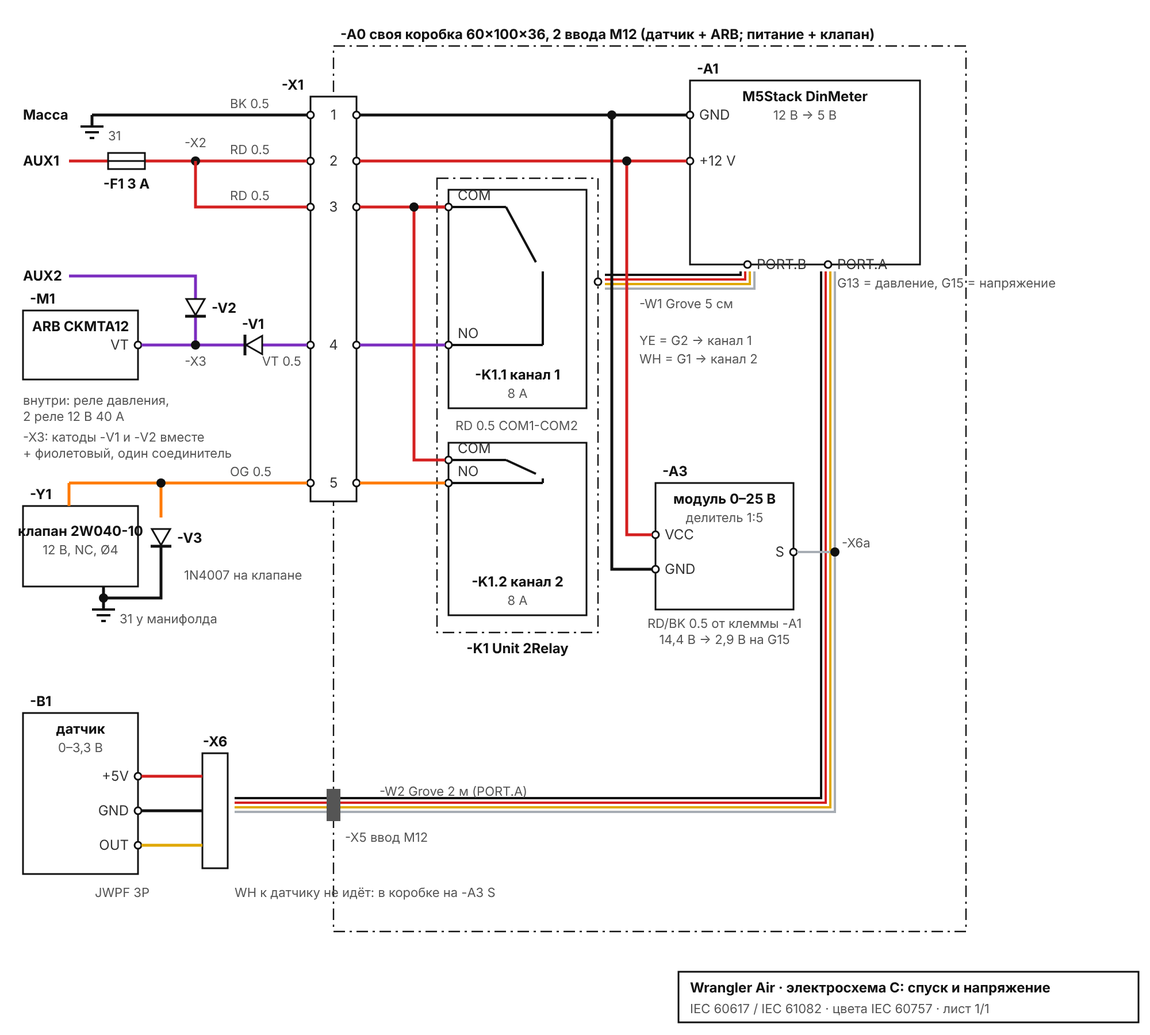
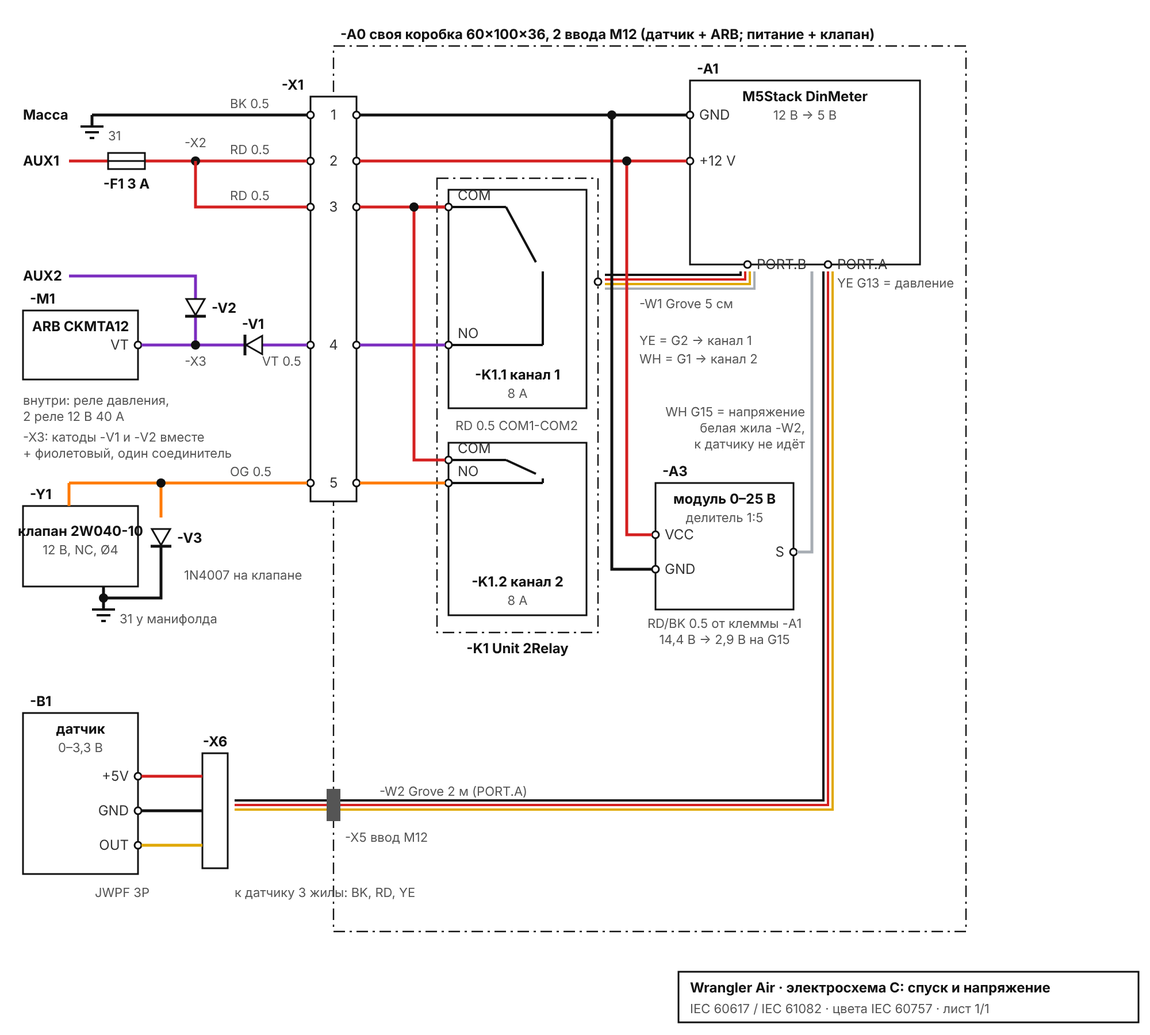
Schematic C: draw G15 (white Grove conductor) as its own wire to -A3 S
Claude-Session: https://claude.ai/code/session_018z5LvCZ9NFya6WZW91qW8w

Changed region(s): [[0.186, 0.2489, 0.837, 0.8089], [0.217, 0.84, 0.372, 0.8711], [0.868, 0.2489, 0.899, 0.28]]

diff --git a/hardware/enclosure/hammond_1591c/power_schematic_def.html b/hardware/enclosure/hammond_1591c/power_schematic_def.html
@@ -1,1 +1,1 @@
-<meta charset="utf-8"><body style="margin:0;--f:Inter,system-ui,sans-serif"><svg viewBox="0 0 1000 900" style="color:var(--fg);max-width:1000px;margin:0 auto;background:#fff;border-radius:8px"><style>.d{font:700 12px var(--f);fill:#111}.n{font:12px var(--f);fill:#333}.c{font:11px var(--f);fill:#555}.w{stroke:#111;stroke-width:2;fill:none;stroke-linejoin:miter}.b{fill:#fff;stroke:#111;stroke-width:1.5}.box{fill:none;stroke:#111;stroke-width:1.2;stroke-dasharray:10 4 2 4}.t{fill:#fff;stroke:#111;stroke-width:1.5}</style><rect x="290" y="40" width="550" height="770" class="box"/><text x="296" y="34" class="d" text-anchor="start">-A0  своя коробка 60×100×36, 2 ввода M12 (датчик + ARB; питание + клапан)</text><rect x="270" y="84" width="40" height="352" class="b"/><text x="264" y="78" class="d" text-anchor="end">-X1</text><circle cx="270" cy="100" r="3" class="t"/><circle cx="310" cy="100" r="3" class="t"/><text x="290" y="104" class="n" text-anchor="middle">1</text><circle cx="270" cy="140" r="3" class="t"/><circle cx="310" cy="140" r="3" class="t"/><text x="290" y="144" class="n" text-anchor="middle">2</text><circle cx="270" cy="180" r="3" class="t"/><circle cx="310" cy="180" r="3" class="t"/><text x="290" y="184" class="n" text-anchor="middle">3</text><circle cx="270" cy="300" r="3" class="t"/><circle cx="310" cy="300" r="3" class="t"/><text x="290" y="304" class="n" text-anchor="middle">4</text><circle cx="270" cy="420" r="3" class="t"/><circle cx="310" cy="420" r="3" class="t"/><text x="290" y="424" class="n" text-anchor="middle">5</text><text x="20" y="104" class="d" text-anchor="start">Масса</text><polyline fill="none" stroke="#111111" stroke-width="2.5" stroke-linejoin="miter" points="80,100 267,100"/><polyline fill="none" stroke="#111111" stroke-width="2.5" stroke-linejoin="miter" points="80,100 80,110"/><line x1="70" y1="110" x2="90" y2="110" stroke="#111" stroke-width="2"/><line x1="74" y1="115" x2="86" y2="115" stroke="#111" stroke-width="2"/><line x1="78" y1="120" x2="82" y2="120" stroke="#111" stroke-width="2"/><text x="94" y="122" class="c" text-anchor="start">31</text><text x="200" y="94" class="c" text-anchor="start">BK 0.5</text><text x="20" y="144" class="d" text-anchor="start">AUX1</text><polyline fill="none" stroke="#d42020" stroke-width="2.5" stroke-linejoin="miter" points="60,140 267,140"/><rect x="94" y="133" width="32" height="14" class="b"/><line x1="94" y1="140" x2="126" y2="140" stroke="#111" stroke-width="1.5"/><text x="110" y="126" class="d" text-anchor="middle"> </text><text x="110" y="164" class="d" text-anchor="middle">-F1 3 A</text><circle cx="170" cy="140" r="4" fill="#111"/><polyline fill="none" stroke="#d42020" stroke-width="2.5" stroke-linejoin="miter" points="170,140 170,180 267,180"/><text x="170" y="128" class="c" text-anchor="middle">-X2</text><text x="200" y="134" class="c" text-anchor="start">RD 0.5</text><text x="200" y="174" class="c" text-anchor="start">RD 0.5</text><text x="20" y="244" class="d" text-anchor="start">AUX2</text><polyline fill="none" stroke="#7b2cbf" stroke-width="2.5" stroke-linejoin="miter" points="60,240 170,240 170,300"/><polygon points="162,260 178,260 170,274" class="b"/><line x1="161" y1="275" x2="179" y2="275" stroke="#111" stroke-width="2.5"/><text x="184" y="272" class="d" text-anchor="start">-V2</text><rect x="20" y="270" width="100" height="60" class="b"/><text x="26" y="264" class="d" text-anchor="start">-M1</text><text x="70.0" y="288" class="d" text-anchor="middle">ARB CKMTA12</text><circle cx="120" cy="300" r="3" class="t"/><text x="112" y="304" class="n" text-anchor="end">VT</text><polyline fill="none" stroke="#7b2cbf" stroke-width="2.5" stroke-linejoin="miter" points="170,300 267,300"/><polyline fill="none" stroke="#7b2cbf" stroke-width="2.5" stroke-linejoin="miter" points="123,300 170,300"/><circle cx="170" cy="300" r="4" fill="#111"/><polygon points="228,292 228,308 214,300" class="b"/><line x1="213" y1="291" x2="213" y2="309" stroke="#111" stroke-width="2.5"/><text x="220" y="286" class="d" text-anchor="middle">-V1</text><text x="170" y="318" class="c" text-anchor="middle">-X3</text><text x="20" y="384" class="c" text-anchor="start">-X3: катоды -V1 и -V2 вместе</text><text x="20" y="398" class="c" text-anchor="start">+ фиолетовый, один соединитель</text><text x="262" y="318" class="c" text-anchor="end">VT 0.5</text><text x="20" y="352" class="c" text-anchor="start">внутри: реле давления,</text><text x="20" y="366" class="c" text-anchor="start">2 реле 12 В 40 А</text><rect x="20" y="620" width="100" height="140" class="b"/><text x="26" y="614" class="d" text-anchor="start">-B1</text><text x="70.0" y="638" class="d" text-anchor="middle">датчик</text><text x="70.0" y="654" class="c" text-anchor="middle">0–3,3 В</text><circle cx="120" cy="675" r="3" class="t"/><text x="112" y="679" class="n" text-anchor="end">+5V</text><circle cx="120" cy="705" r="3" class="t"/><text x="112" y="709" class="n" text-anchor="end">GND</text><circle cx="120" cy="735" r="3" class="t"/><text x="112" y="739" class="n" text-anchor="end">OUT</text><rect x="176" y="655" width="22" height="100" class="b"/><text x="187" y="649" class="d" text-anchor="middle">-X6</text><text x="187" y="770" class="c" text-anchor="middle"></text><text x="130" y="780" class="c" text-anchor="end">JWPF 3P</text><polyline fill="none" stroke="#d42020" stroke-width="2.5" stroke-linejoin="miter" points="123,675 176,675"/><polyline fill="none" stroke="#111111" stroke-width="2.5" stroke-linejoin="miter" points="123,705 176,705"/><polyline fill="none" stroke="#e0a800" stroke-width="2.5" stroke-linejoin="miter" points="123,735 176,735"/><polyline fill="none" stroke="#111111" stroke-width="2" stroke-linejoin="miter" points="714.0,236 714.0,694.0 204,694.0"/><polyline fill="none" stroke="#d42020" stroke-width="2" stroke-linejoin="miter" points="718.0,236 718.0,698.0 204,698.0"/><polyline fill="none" stroke="#e0a800" stroke-width="2" stroke-linejoin="miter" points="722.0,236 722.0,702.0 204,702.0"/><polyline fill="none" stroke="#a7adb4" stroke-width="2" stroke-linejoin="miter" points="726.0,236 726.0,706.0 204,706.0"/><rect x="284" y="686" width="12" height="28" fill="#555"/><text x="300" y="732" class="c" text-anchor="start">-X5 ввод M12</text><text x="330" y="692" class="c" text-anchor="start">-W2 Grove 2 м (PORT.A)</text><text x="204" y="780" class="c" text-anchor="start">WH к датчику не идёт: в коробке на -A3 S</text><rect x="600" y="70" width="200" height="160" class="b"/><text x="606" y="64" class="d" text-anchor="start">-A1</text><text x="700.0" y="88" class="d" text-anchor="middle">M5Stack DinMeter</text><text x="700.0" y="104" class="c" text-anchor="middle">12 В → 5 В</text><circle cx="600" cy="100" r="3" class="t"/><text x="608" y="104" class="n" text-anchor="start">GND</text><circle cx="600" cy="140" r="3" class="t"/><text x="608" y="144" class="n" text-anchor="start">+12 V</text><circle cx="650" cy="230" r="3" class="t"/><text x="658" y="234" class="n" text-anchor="start">PORT.B</text><circle cx="720" cy="230" r="3" class="t"/><text x="728" y="234" class="n" text-anchor="start">PORT.A</text><text x="728" y="250" class="c" text-anchor="start">G13 = давление, G15 = напряжение</text><polyline fill="none" stroke="#111111" stroke-width="2.5" stroke-linejoin="miter" points="313,100 597,100"/><polyline fill="none" stroke="#d42020" stroke-width="2.5" stroke-linejoin="miter" points="313,140 597,140"/><rect x="390" y="165" width="120" height="190" class="b"/><rect x="380" y="155" width="140" height="395" class="box"/><text x="450" y="568" class="d" text-anchor="middle">-K1 Unit 2Relay</text><text x="450" y="330" class="d" text-anchor="middle">-K1.1 канал 1</text><text x="450" y="346" class="c" text-anchor="middle">8 A</text><line x1="393" y1="180" x2="440" y2="180" stroke="#111" stroke-width="2"/><line x1="440" y1="180" x2="466" y2="228" stroke="#111" stroke-width="2"/><line x1="393" y1="300" x2="472" y2="300" stroke="#111" stroke-width="2"/><line x1="472" y1="300" x2="472" y2="236" stroke="#111" stroke-width="2"/><circle cx="390" cy="180" r="3" class="t"/><circle cx="390" cy="300" r="3" class="t"/><text x="398" y="174" class="n" text-anchor="start">COM</text><text x="398" y="294" class="n" text-anchor="start">NO</text><polyline fill="none" stroke="#d42020" stroke-width="2.5" stroke-linejoin="miter" points="313,180 387,180"/><polyline fill="none" stroke="#7b2cbf" stroke-width="2.5" stroke-linejoin="miter" points="313,300 387,300"/><circle cx="520" cy="245" r="3" class="t"/><polyline fill="none" stroke="#111111" stroke-width="2" stroke-linejoin="miter" points="644.0,236 644.0,239.0 526,239.0"/><polyline fill="none" stroke="#d42020" stroke-width="2" stroke-linejoin="miter" points="648.0,236 648.0,243.0 526,243.0"/><polyline fill="none" stroke="#e0a800" stroke-width="2" stroke-linejoin="miter" points="652.0,236 652.0,247.0 526,247.0"/><polyline fill="none" stroke="#a7adb4" stroke-width="2" stroke-linejoin="miter" points="656.0,236 656.0,251.0 526,251.0"/><text x="556" y="268" class="c" text-anchor="start">-W1 Grove 5 см</text><rect x="390" y="385" width="120" height="150" class="b"/><text x="450" y="510" class="d" text-anchor="middle">-K1.2 канал 2</text><text x="450" y="526" class="c" text-anchor="middle">8 A</text><line x1="393" y1="400" x2="440" y2="400" stroke="#111" stroke-width="2"/><line x1="440" y1="400" x2="466" y2="412" stroke="#111" stroke-width="2"/><line x1="393" y1="420" x2="472" y2="420" stroke="#111" stroke-width="2"/><line x1="472" y1="420" x2="472" y2="416" stroke="#111" stroke-width="2"/><circle cx="390" cy="400" r="3" class="t"/><circle cx="390" cy="420" r="3" class="t"/><text x="398" y="394" class="n" text-anchor="start">COM</text><text x="398" y="414" class="n" text-anchor="start">NO</text><polyline fill="none" stroke="#d42020" stroke-width="2.5" stroke-linejoin="miter" points="387,180 360,180 360,400 387,400"/><circle cx="360" cy="180" r="4" fill="#111"/><text x="396" y="374" class="c" text-anchor="start">RD 0.5 COM1-COM2</text><polyline fill="none" stroke="#ff7a00" stroke-width="2.5" stroke-linejoin="miter" points="313,420 387,420"/><text x="556" y="300" class="c" text-anchor="start">YE = G2 → канал 1</text><text x="556" y="316" class="c" text-anchor="start">WH = G1 → канал 2</text><polyline fill="none" stroke="#ff7a00" stroke-width="2.5" stroke-linejoin="miter" points="60,420 267,420"/><text x="200" y="414" class="c" text-anchor="start">OG 0.5</text><rect x="20" y="440" width="100" height="70" class="b"/><text x="26" y="434" class="d" text-anchor="start">-Y1</text><text x="70" y="466" class="d" text-anchor="middle">клапан 2W040-10</text><text x="70" y="482" class="c" text-anchor="middle">12 В, NC, Ø4</text><polyline fill="none" stroke="#ff7a00" stroke-width="2.5" stroke-linejoin="miter" points="60,420 60,440"/><polyline fill="none" stroke="#111111" stroke-width="2.5" stroke-linejoin="miter" points="90,510 90,530"/><line x1="80" y1="530" x2="100" y2="530" stroke="#111" stroke-width="2"/><line x1="84" y1="535" x2="96" y2="535" stroke="#111" stroke-width="2"/><line x1="88" y1="540" x2="92" y2="540" stroke="#111" stroke-width="2"/><text x="104" y="542" class="c" text-anchor="start">31 у манифолда</text><polyline fill="none" stroke="#ff7a00" stroke-width="2.5" stroke-linejoin="miter" points="140,420 140,450"/><polygon points="132,460 148,460 140,474" class="b"/><line x1="131" y1="475" x2="149" y2="475" stroke="#111" stroke-width="2.5"/><text x="154" y="472" class="d" text-anchor="start">-V3</text><polyline fill="none" stroke="#111111" stroke-width="2.5" stroke-linejoin="miter" points="140,476 140,520 90,520"/><circle cx="140" cy="420" r="4" fill="#111"/><circle cx="90" cy="520" r="4" fill="#111"/><text x="160" y="504" class="c" text-anchor="start">1N4007 на клапане</text><rect x="570" y="420" width="120" height="110" class="b"/><text x="576" y="414" class="d" text-anchor="start">-A3</text><text x="630.0" y="438" class="d" text-anchor="middle">модуль 0–25 В</text><text x="630.0" y="454" class="c" text-anchor="middle">делитель 1:5</text><circle cx="570" cy="465" r="3" class="t"/><text x="578" y="469" class="n" text-anchor="start">VCC</text><circle cx="570" cy="495" r="3" class="t"/><text x="578" y="499" class="n" text-anchor="start">GND</text><circle cx="690" cy="480" r="3" class="t"/><text x="682" y="484" class="n" text-anchor="end">S</text><polyline fill="none" stroke="#d42020" stroke-width="2.5" stroke-linejoin="miter" points="545,140 545,465 567,465"/><circle cx="545" cy="140" r="4" fill="#111"/><polyline fill="none" stroke="#111111" stroke-width="2.5" stroke-linejoin="miter" points="532,100 532,495 567,495"/><circle cx="532" cy="100" r="4" fill="#111"/><polyline fill="none" stroke="#a7adb4" stroke-width="2" stroke-linejoin="miter" points="693,480 726,480"/><circle cx="726" cy="480" r="4" fill="#111"/><text x="732" y="476" class="c" text-anchor="start">-X6a</text><text x="630" y="546" class="c" text-anchor="middle">RD/BK 0.5 от клеммы -A1</text><text x="630" y="560" class="c" text-anchor="middle">14,4 В → 2,9 В на G15</text><rect x="590" y="845" width="400" height="44" class="b"/><text x="600" y="863" class="d" text-anchor="start">Wrangler Air · электросхема C: спуск и напряжение</text><text x="600" y="881" class="c" text-anchor="start">IEC 60617 / IEC 61082 · цвета IEC 60757 · лист 1/1</text></svg>
+<meta charset="utf-8"><body style="margin:0;--f:Inter,system-ui,sans-serif"><svg viewBox="0 0 1000 900" style="color:var(--fg);max-width:1000px;margin:0 auto;background:#fff;border-radius:8px"><style>.d{font:700 12px var(--f);fill:#111}.n{font:12px var(--f);fill:#333}.c{font:11px var(--f);fill:#555}.w{stroke:#111;stroke-width:2;fill:none;stroke-linejoin:miter}.b{fill:#fff;stroke:#111;stroke-width:1.5}.box{fill:none;stroke:#111;stroke-width:1.2;stroke-dasharray:10 4 2 4}.t{fill:#fff;stroke:#111;stroke-width:1.5}</style><rect x="290" y="40" width="550" height="770" class="box"/><text x="296" y="34" class="d" text-anchor="start">-A0  своя коробка 60×100×36, 2 ввода M12 (датчик + ARB; питание + клапан)</text><rect x="270" y="84" width="40" height="352" class="b"/><text x="264" y="78" class="d" text-anchor="end">-X1</text><circle cx="270" cy="100" r="3" class="t"/><circle cx="310" cy="100" r="3" class="t"/><text x="290" y="104" class="n" text-anchor="middle">1</text><circle cx="270" cy="140" r="3" class="t"/><circle cx="310" cy="140" r="3" class="t"/><text x="290" y="144" class="n" text-anchor="middle">2</text><circle cx="270" cy="180" r="3" class="t"/><circle cx="310" cy="180" r="3" class="t"/><text x="290" y="184" class="n" text-anchor="middle">3</text><circle cx="270" cy="300" r="3" class="t"/><circle cx="310" cy="300" r="3" class="t"/><text x="290" y="304" class="n" text-anchor="middle">4</text><circle cx="270" cy="420" r="3" class="t"/><circle cx="310" cy="420" r="3" class="t"/><text x="290" y="424" class="n" text-anchor="middle">5</text><text x="20" y="104" class="d" text-anchor="start">Масса</text><polyline fill="none" stroke="#111111" stroke-width="2.5" stroke-linejoin="miter" points="80,100 267,100"/><polyline fill="none" stroke="#111111" stroke-width="2.5" stroke-linejoin="miter" points="80,100 80,110"/><line x1="70" y1="110" x2="90" y2="110" stroke="#111" stroke-width="2"/><line x1="74" y1="115" x2="86" y2="115" stroke="#111" stroke-width="2"/><line x1="78" y1="120" x2="82" y2="120" stroke="#111" stroke-width="2"/><text x="94" y="122" class="c" text-anchor="start">31</text><text x="200" y="94" class="c" text-anchor="start">BK 0.5</text><text x="20" y="144" class="d" text-anchor="start">AUX1</text><polyline fill="none" stroke="#d42020" stroke-width="2.5" stroke-linejoin="miter" points="60,140 267,140"/><rect x="94" y="133" width="32" height="14" class="b"/><line x1="94" y1="140" x2="126" y2="140" stroke="#111" stroke-width="1.5"/><text x="110" y="126" class="d" text-anchor="middle"> </text><text x="110" y="164" class="d" text-anchor="middle">-F1 3 A</text><circle cx="170" cy="140" r="4" fill="#111"/><polyline fill="none" stroke="#d42020" stroke-width="2.5" stroke-linejoin="miter" points="170,140 170,180 267,180"/><text x="170" y="128" class="c" text-anchor="middle">-X2</text><text x="200" y="134" class="c" text-anchor="start">RD 0.5</text><text x="200" y="174" class="c" text-anchor="start">RD 0.5</text><text x="20" y="244" class="d" text-anchor="start">AUX2</text><polyline fill="none" stroke="#7b2cbf" stroke-width="2.5" stroke-linejoin="miter" points="60,240 170,240 170,300"/><polygon points="162,260 178,260 170,274" class="b"/><line x1="161" y1="275" x2="179" y2="275" stroke="#111" stroke-width="2.5"/><text x="184" y="272" class="d" text-anchor="start">-V2</text><rect x="20" y="270" width="100" height="60" class="b"/><text x="26" y="264" class="d" text-anchor="start">-M1</text><text x="70.0" y="288" class="d" text-anchor="middle">ARB CKMTA12</text><circle cx="120" cy="300" r="3" class="t"/><text x="112" y="304" class="n" text-anchor="end">VT</text><polyline fill="none" stroke="#7b2cbf" stroke-width="2.5" stroke-linejoin="miter" points="170,300 267,300"/><polyline fill="none" stroke="#7b2cbf" stroke-width="2.5" stroke-linejoin="miter" points="123,300 170,300"/><circle cx="170" cy="300" r="4" fill="#111"/><polygon points="228,292 228,308 214,300" class="b"/><line x1="213" y1="291" x2="213" y2="309" stroke="#111" stroke-width="2.5"/><text x="220" y="286" class="d" text-anchor="middle">-V1</text><text x="170" y="318" class="c" text-anchor="middle">-X3</text><text x="20" y="384" class="c" text-anchor="start">-X3: катоды -V1 и -V2 вместе</text><text x="20" y="398" class="c" text-anchor="start">+ фиолетовый, один соединитель</text><text x="262" y="318" class="c" text-anchor="end">VT 0.5</text><text x="20" y="352" class="c" text-anchor="start">внутри: реле давления,</text><text x="20" y="366" class="c" text-anchor="start">2 реле 12 В 40 А</text><rect x="20" y="620" width="100" height="140" class="b"/><text x="26" y="614" class="d" text-anchor="start">-B1</text><text x="70.0" y="638" class="d" text-anchor="middle">датчик</text><text x="70.0" y="654" class="c" text-anchor="middle">0–3,3 В</text><circle cx="120" cy="675" r="3" class="t"/><text x="112" y="679" class="n" text-anchor="end">+5V</text><circle cx="120" cy="705" r="3" class="t"/><text x="112" y="709" class="n" text-anchor="end">GND</text><circle cx="120" cy="735" r="3" class="t"/><text x="112" y="739" class="n" text-anchor="end">OUT</text><rect x="176" y="655" width="22" height="100" class="b"/><text x="187" y="649" class="d" text-anchor="middle">-X6</text><text x="187" y="770" class="c" text-anchor="middle"></text><text x="130" y="780" class="c" text-anchor="end">JWPF 3P</text><polyline fill="none" stroke="#d42020" stroke-width="2.5" stroke-linejoin="miter" points="123,675 176,675"/><polyline fill="none" stroke="#111111" stroke-width="2.5" stroke-linejoin="miter" points="123,705 176,705"/><polyline fill="none" stroke="#e0a800" stroke-width="2.5" stroke-linejoin="miter" points="123,735 176,735"/><polyline fill="none" stroke="#111111" stroke-width="2" stroke-linejoin="miter" points="716.0,236 716.0,696.0 204,696.0"/><polyline fill="none" stroke="#d42020" stroke-width="2" stroke-linejoin="miter" points="720.0,236 720.0,700.0 204,700.0"/><polyline fill="none" stroke="#e0a800" stroke-width="2" stroke-linejoin="miter" points="724.0,236 724.0,704.0 204,704.0"/><rect x="284" y="686" width="12" height="28" fill="#555"/><text x="300" y="732" class="c" text-anchor="start">-X5 ввод M12</text><text x="330" y="692" class="c" text-anchor="start">-W2 Grove 2 м (PORT.A)</text><text x="204" y="780" class="c" text-anchor="start">к датчику 3 жилы: BK, RD, YE</text><rect x="600" y="70" width="200" height="160" class="b"/><text x="606" y="64" class="d" text-anchor="start">-A1</text><text x="700.0" y="88" class="d" text-anchor="middle">M5Stack DinMeter</text><text x="700.0" y="104" class="c" text-anchor="middle">12 В → 5 В</text><circle cx="600" cy="100" r="3" class="t"/><text x="608" y="104" class="n" text-anchor="start">GND</text><circle cx="600" cy="140" r="3" class="t"/><text x="608" y="144" class="n" text-anchor="start">+12 V</text><circle cx="650" cy="230" r="3" class="t"/><text x="658" y="234" class="n" text-anchor="start">PORT.B</text><circle cx="720" cy="230" r="3" class="t"/><text x="728" y="234" class="n" text-anchor="start">PORT.A</text><text x="728" y="250" class="c" text-anchor="start">YE G13 = давление</text><polyline fill="none" stroke="#111111" stroke-width="2.5" stroke-linejoin="miter" points="313,100 597,100"/><polyline fill="none" stroke="#d42020" stroke-width="2.5" stroke-linejoin="miter" points="313,140 597,140"/><rect x="390" y="165" width="120" height="190" class="b"/><rect x="380" y="155" width="140" height="395" class="box"/><text x="450" y="568" class="d" text-anchor="middle">-K1 Unit 2Relay</text><text x="450" y="330" class="d" text-anchor="middle">-K1.1 канал 1</text><text x="450" y="346" class="c" text-anchor="middle">8 A</text><line x1="393" y1="180" x2="440" y2="180" stroke="#111" stroke-width="2"/><line x1="440" y1="180" x2="466" y2="228" stroke="#111" stroke-width="2"/><line x1="393" y1="300" x2="472" y2="300" stroke="#111" stroke-width="2"/><line x1="472" y1="300" x2="472" y2="236" stroke="#111" stroke-width="2"/><circle cx="390" cy="180" r="3" class="t"/><circle cx="390" cy="300" r="3" class="t"/><text x="398" y="174" class="n" text-anchor="start">COM</text><text x="398" y="294" class="n" text-anchor="start">NO</text><polyline fill="none" stroke="#d42020" stroke-width="2.5" stroke-linejoin="miter" points="313,180 387,180"/><polyline fill="none" stroke="#7b2cbf" stroke-width="2.5" stroke-linejoin="miter" points="313,300 387,300"/><circle cx="520" cy="245" r="3" class="t"/><polyline fill="none" stroke="#111111" stroke-width="2" stroke-linejoin="miter" points="644.0,236 644.0,239.0 526,239.0"/><polyline fill="none" stroke="#d42020" stroke-width="2" stroke-linejoin="miter" points="648.0,236 648.0,243.0 526,243.0"/><polyline fill="none" stroke="#e0a800" stroke-width="2" stroke-linejoin="miter" points="652.0,236 652.0,247.0 526,247.0"/><polyline fill="none" stroke="#a7adb4" stroke-width="2" stroke-linejoin="miter" points="656.0,236 656.0,251.0 526,251.0"/><text x="556" y="268" class="c" text-anchor="start">-W1 Grove 5 см</text><rect x="390" y="385" width="120" height="150" class="b"/><text x="450" y="510" class="d" text-anchor="middle">-K1.2 канал 2</text><text x="450" y="526" class="c" text-anchor="middle">8 A</text><line x1="393" y1="400" x2="440" y2="400" stroke="#111" stroke-width="2"/><line x1="440" y1="400" x2="466" y2="412" stroke="#111" stroke-width="2"/><line x1="393" y1="420" x2="472" y2="420" stroke="#111" stroke-width="2"/><line x1="472" y1="420" x2="472" y2="416" stroke="#111" stroke-width="2"/><circle cx="390" cy="400" r="3" class="t"/><circle cx="390" cy="420" r="3" class="t"/><text x="398" y="394" class="n" text-anchor="start">COM</text><text x="398" y="414" class="n" text-anchor="start">NO</text><polyline fill="none" stroke="#d42020" stroke-width="2.5" stroke-linejoin="miter" points="387,180 360,180 360,400 387,400"/><circle cx="360" cy="180" r="4" fill="#111"/><text x="396" y="374" class="c" text-anchor="start">RD 0.5 COM1-COM2</text><polyline fill="none" stroke="#ff7a00" stroke-width="2.5" stroke-linejoin="miter" points="313,420 387,420"/><text x="556" y="300" class="c" text-anchor="start">YE = G2 → канал 1</text><text x="556" y="316" class="c" text-anchor="start">WH = G1 → канал 2</text><polyline fill="none" stroke="#ff7a00" stroke-width="2.5" stroke-linejoin="miter" points="60,420 267,420"/><text x="200" y="414" class="c" text-anchor="start">OG 0.5</text><rect x="20" y="440" width="100" height="70" class="b"/><text x="26" y="434" class="d" text-anchor="start">-Y1</text><text x="70" y="466" class="d" text-anchor="middle">клапан 2W040-10</text><text x="70" y="482" class="c" text-anchor="middle">12 В, NC, Ø4</text><polyline fill="none" stroke="#ff7a00" stroke-width="2.5" stroke-linejoin="miter" points="60,420 60,440"/><polyline fill="none" stroke="#111111" stroke-width="2.5" stroke-linejoin="miter" points="90,510 90,530"/><line x1="80" y1="530" x2="100" y2="530" stroke="#111" stroke-width="2"/><line x1="84" y1="535" x2="96" y2="535" stroke="#111" stroke-width="2"/><line x1="88" y1="540" x2="92" y2="540" stroke="#111" stroke-width="2"/><text x="104" y="542" class="c" text-anchor="start">31 у манифолда</text><polyline fill="none" stroke="#ff7a00" stroke-width="2.5" stroke-linejoin="miter" points="140,420 140,450"/><polygon points="132,460 148,460 140,474" class="b"/><line x1="131" y1="475" x2="149" y2="475" stroke="#111" stroke-width="2.5"/><text x="154" y="472" class="d" text-anchor="start">-V3</text><polyline fill="none" stroke="#111111" stroke-width="2.5" stroke-linejoin="miter" points="140,476 140,520 90,520"/><circle cx="140" cy="420" r="4" fill="#111"/><circle cx="90" cy="520" r="4" fill="#111"/><text x="160" y="504" class="c" text-anchor="start">1N4007 на клапане</text><rect x="570" y="420" width="120" height="110" class="b"/><text x="576" y="414" class="d" text-anchor="start">-A3</text><text x="630.0" y="438" class="d" text-anchor="middle">модуль 0–25 В</text><text x="630.0" y="454" class="c" text-anchor="middle">делитель 1:5</text><circle cx="570" cy="465" r="3" class="t"/><text x="578" y="469" class="n" text-anchor="start">VCC</text><circle cx="570" cy="495" r="3" class="t"/><text x="578" y="499" class="n" text-anchor="start">GND</text><circle cx="690" cy="480" r="3" class="t"/><text x="682" y="484" class="n" text-anchor="end">S</text><polyline fill="none" stroke="#d42020" stroke-width="2.5" stroke-linejoin="miter" points="545,140 545,465 567,465"/><circle cx="545" cy="140" r="4" fill="#111"/><polyline fill="none" stroke="#111111" stroke-width="2.5" stroke-linejoin="miter" points="532,100 532,495 567,495"/><circle cx="532" cy="100" r="4" fill="#111"/><polyline fill="none" stroke="#a7adb4" stroke-width="2.5" stroke-linejoin="miter" points="706,236 706,480 693,480"/><text x="700" y="362" class="c" text-anchor="end">WH G15 = напряжение</text><text x="700" y="376" class="c" text-anchor="end">белая жила -W2,</text><text x="700" y="390" class="c" text-anchor="end">к датчику не идёт</text><text x="630" y="546" class="c" text-anchor="middle">RD/BK 0.5 от клеммы -A1</text><text x="630" y="560" class="c" text-anchor="middle">14,4 В → 2,9 В на G15</text><rect x="590" y="845" width="400" height="44" class="b"/><text x="600" y="863" class="d" text-anchor="start">Wrangler Air · электросхема C: спуск и напряжение</text><text x="600" y="881" class="c" text-anchor="start">IEC 60617 / IEC 61082 · цвета IEC 60757 · лист 1/1</text></svg>

diff --git a/hardware/enclosure/hammond_1591c/power_svg.py b/hardware/enclosure/hammond_1591c/power_svg.py
@@ -378,9 +378,9 @@ def power_svg_iec_def():
         o.append(f'<polyline fill="none" stroke="{CC[c]}" stroke-width="{w}" stroke-linejoin="miter" points="' + " ".join(f"{x},{y}" for x, y in pts) + '"/>')
 
     def grove4(pts, order=("BK", "RD", "YE", "WH")):
-        """Grove cable: four conductors side by side, in their real colours."""
+        """Grove cable: conductors side by side, in their real colours."""
         for i, c in enumerate(order):
-            off = (i - 1.5) * 4
+            off = (i - (len(order) - 1) / 2) * 4
             q = []
             for k, (x, y) in enumerate(pts):
                 nb = [pts[j] for j in (k - 1, k + 1) if 0 <= j < len(pts)]
@@ -471,16 +471,16 @@ def power_svg_iec_def():
     lab(187, 770, "", "c")
     lab(130, 780, "JWPF 3P", "c", "end")
     L((123, S["+5V"]), (176, S["+5V"]), c="RD"); L((123, S["GND"]), (176, S["GND"]), c="BK"); L((123, S["OUT"]), (176, S["OUT"]), c="YE")
-    grove4([(720, 236), (720, 700), (204, 700)])
+    grove4([(720, 236), (720, 700), (204, 700)], order=("BK", "RD", "YE"))   # WH (G15) stays in the box, see -A3
     o.append('<rect x="284" y="686" width="12" height="28" fill="#555"/>'); lab(300, 732, "-X5 ввод M12", "c", "start")
     lab(330, 692, "-W2 Grove 2 м (PORT.A)", "c", "start")
-    lab(204, 780, "WH к датчику не идёт: в коробке на -A3 S", "c", "start")
+    lab(204, 780, "к датчику 3 жилы: BK, RD, YE", "c", "start")
 
     # inside
     comp(600, 70, 200, 160, "-A1", "M5Stack DinMeter", "12 В → 5 В")
     pinl(600, T[1], "GND"); pinl(600, T[2], "+12 V")
     pinl(650, 230, "PORT.B"); pinl(720, 230, "PORT.A")
-    lab(728, 250, "G13 = давление, G15 = напряжение", "c", "start")
+    lab(728, 250, "YE G13 = давление", "c", "start")
     L((313, T[1]), (597, T[1]), c="BK"); L((313, T[2]), (597, T[2]), c="RD")
     o.append('<rect x="390" y="165" width="120" height="190" class="b"/>')
     o.append('<rect x="380" y="155" width="140" height="395" class="box"/>'); lab(450, 568, "-K1 Unit 2Relay", "d"); lab(450, 330, "-K1.1 канал 1", "d"); lab(450, 346, "8 A", "c")
@@ -518,7 +518,7 @@ def power_svg_iec_def():
     pinl(570, 465, "VCC"); pinl(570, 495, "GND"); pinl(690, 480, "S", "r")
     L((545, T[2]), (545, 465), (567, 465), c="RD"); dot(545, T[2])
     L((532, T[1]), (532, 495), (567, 495), c="BK"); dot(532, T[1])
-    L((693, 480), (726, 480), c="WH", w=2); dot(726, 480); lab(732, 476, "-X6a", "c", "start")
+    L((706, 236), (706, 480), (693, 480), c="WH", w=2.5); lab(700, 362, "WH G15 = напряжение", "c", "end"); lab(700, 376, "белая жила -W2,", "c", "end"); lab(700, 390, "к датчику не идёт", "c", "end")
     lab(630, 546, "RD/BK 0.5 от клеммы -A1", "c"); lab(630, 560, "14,4 В → 2,9 В на G15", "c")
 
     # title block
